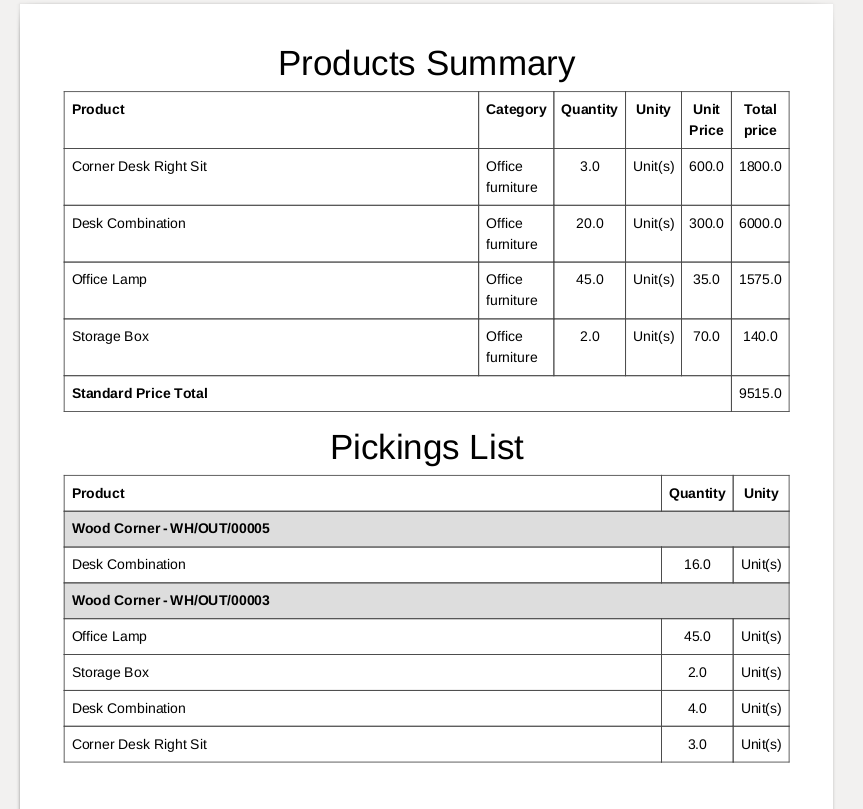
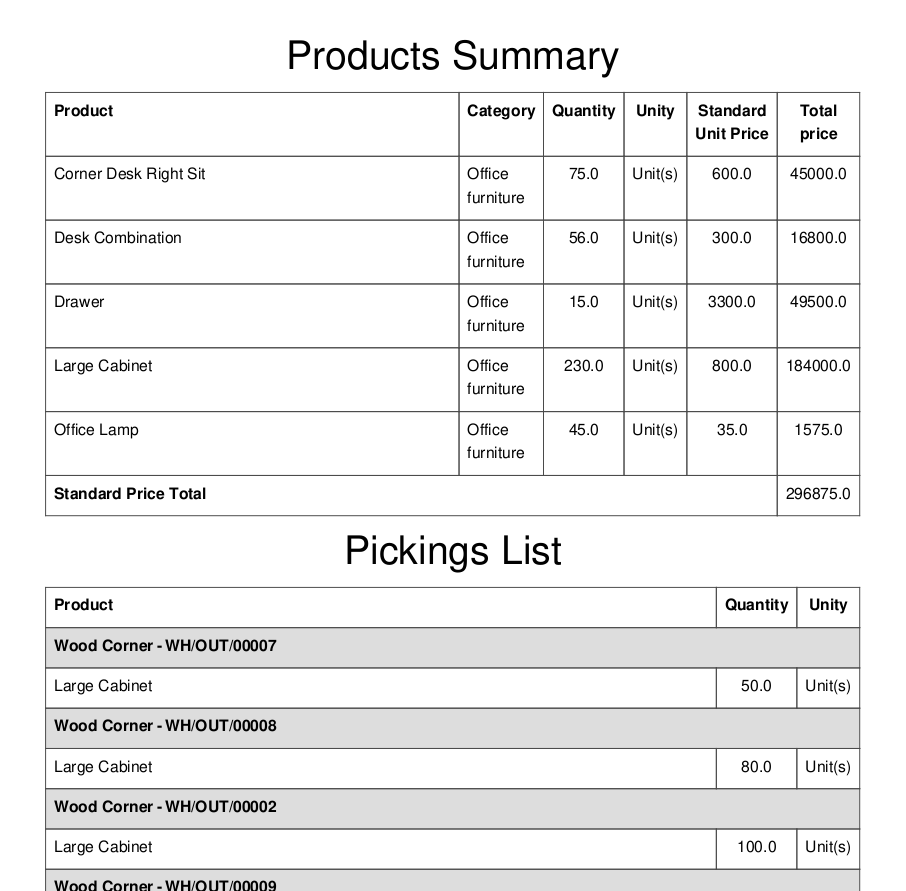
[IMP] stock_report_picking_summary: optional print prices

Changed region(s): [[0.0301, 0.0309, 0.9641, 1.0]]

diff --git a/stock_picking_report_summary/static/description/index.html b/stock_picking_report_summary/static/description/index.html
@@ -374,6 +374,8 @@ print a Report summary with two sheets :</p>
 <li>Products Summary (where the total sum is calculated for each product)</li>
 <li>Detail Part (each Picking is shown)</li>
 </ul>
+<p>You can choose to print standard prices or not. It can be useful to check some
+values when you prepare your pickings.</p>
 <p><strong>Table of contents</strong></p>
 <div class="contents local topic" id="contents">
 <ul class="simple">
@@ -394,12 +396,17 @@ print a Report summary with two sheets :</p>
 <li>go to Inventory</li>
 <li>Choose a Operation</li>
 <li>Select any pickings and click on ‘Action’ / ‘Print Picking Summary (PDF)’</li>
+<li>Choose your options</li>
 </ul>
 <div class="figure">
 <img alt="https://raw.githubusercontent.com/quentinDupont/stock-logistics-reporting/12.0_ADD_picking_summary_report/stock_picking_report_summary/static/description/wizard.png" src="https://raw.githubusercontent.com/quentinDupont/stock-logistics-reporting/12.0_ADD_picking_summary_report/stock_picking_report_summary/static/description/wizard.png" />
 </div>
 <div class="figure">
 <img alt="https://raw.githubusercontent.com/quentinDupont/stock-logistics-reporting/12.0_ADD_picking_summary_report/stock_picking_report_summary/static/description/pdf_report.png" src="https://raw.githubusercontent.com/quentinDupont/stock-logistics-reporting/12.0_ADD_picking_summary_report/stock_picking_report_summary/static/description/pdf_report.png" />
+</div>
+<p>Without prices :</p>
+<div class="figure">
+<img alt="https://raw.githubusercontent.com/quentinDupont/stock-logistics-reporting/12.0_ADD_picking_summary_report/stock_picking_report_summary/static/description/pdf_report_wo_prices.png" src="https://raw.githubusercontent.com/quentinDupont/stock-logistics-reporting/12.0_ADD_picking_summary_report/stock_picking_report_summary/static/description/pdf_report_wo_prices.png" />
 </div>
 </div>
 <div class="section" id="bug-tracker">
@@ -426,6 +433,8 @@ If you spotted it first, help us smashing it by providing a detailed and welcome
 </div>
 <div class="section" id="maintainers">
 <h2><a class="toc-backref" href="#id6">Maintainers</a></h2>
+<p>Current maintainer:</p>
+<p><a class="reference external" href="https://github.com/quentinDupont"><img alt="quentinDupont" src="https://github.com/quentinDupont.png?size=40px" /></a></p>
 <p>This module is part of the <a class="reference external" href="https://github.com/quentinDupont/stock-logistics-reporting/tree/12.0_ADD_picking_summary_report/stock_picking_report_summary">quentinDupont/stock-logistics-reporting</a> project on GitHub.</p>
 <p>You are welcome to contribute.</p>
 </div>

diff --git a/stock_picking_report_summary/models/picking_summary_wizard.py b/stock_picking_report_summary/models/picking_summary_wizard.py
@@ -10,6 +10,37 @@ class PickingSummaryWizard(models.TransientModel):
     _name = 'picking.summary.wizard'
     _description = 'Picking Summary Wizard'
 
+    # Columns Section
+    print_summary = fields.Boolean(
+        string='Print Summary', default=True)
+
+    print_detail = fields.Boolean(
+        string='Print Detail', default=True)
+
+    print_unity_in_list = fields.Boolean(
+        string='Print Unit in Pickings List', default=True)
+
+    print_prices = fields.Boolean(
+        string='Print Standard Prices', default=False)
+
+    product_line_ids = fields.One2many(
+        comodel_name='picking.summary.wizard.product',
+        inverse_name='wizard_id',
+        default=lambda self: self._default_product_line_ids())
+
+    standard_price_total = fields.Float(
+        compute='_compute_standard_price_total',
+        digits=dp.get_precision('Product Price'))
+
+    picking_line_ids = fields.One2many(
+        comodel_name='picking.summary.wizard.picking',
+        inverse_name='wizard_id',
+        default=lambda self: self._default_picking_line_ids())
+
+    picking_line_qty = fields.Integer(
+        string='Number of Selected Picking', readonly=True,
+        default=lambda self: self._default_picking_line_qty())
+
     # Default Section
     def _default_picking_line_qty(self):
         return len(self._context.get('active_ids', []))
@@ -48,41 +79,12 @@ class PickingSummaryWizard(models.TransientModel):
         # Arranged in alphabetical order for category then product name
         product_lines_sorted = sorted(
             product_lines.items(), key=lambda x: (x[1]['categ'], x[1]['name']))
-        # product_lines_sorted = sorted(
-        #     dict(product_lines_sorted).items(),
-        #     key=lambda x: )
         for product_id, name_qty in product_lines_sorted:
             res.append((0, 0, {
                 'product_id': product_id,
                 'quantity_total': name_qty['qty'],
             }))
         return res
-
-    # Columns Section
-    print_summary = fields.Boolean(
-        string='Print Summary', default=True)
-
-    print_detail = fields.Boolean(
-        string='Print Detail', default=True)
-
-    print_unity_in_list = fields.Boolean(
-        string='Print Unit in Pickings List', default=True)
-
-    product_line_ids = fields.One2many(
-        comodel_name='picking.summary.wizard.product',
-        inverse_name='wizard_id', default=_default_product_line_ids)
-
-    standard_price_total = fields.Float(
-        compute='_compute_standard_price_total',
-        digits=dp.get_precision('Product Unit of Measure'))
-
-    picking_line_ids = fields.One2many(
-        comodel_name='picking.summary.wizard.picking',
-        inverse_name='wizard_id', default=_default_picking_line_ids)
-
-    picking_line_qty = fields.Integer(
-        string='Number of Selected Picking', readonly=True,
-        default=_default_picking_line_qty)
 
     # Compute Section
     @api.multi

diff --git a/stock_picking_report_summary/models/picking_summary_wizard_product.py b/stock_picking_report_summary/models/picking_summary_wizard_product.py
@@ -16,9 +16,13 @@ class PickingSummaryWizardProduct(models.TransientModel):
 
     quantity_total = fields.Float()
 
+    standard_price = fields.Float(
+        related='product_id.standard_price',
+        digits=dp.get_precision('Product Price'))
+
     standard_price_total = fields.Float(
         compute='_compute_standard_price_total',
-        digits=dp.get_precision('Product Unit of Measure'))
+        digits=dp.get_precision('Product Price'))
 
     @api.multi
     def _compute_standard_price_total(self):

diff --git a/stock_picking_report_summary/README.rst b/stock_picking_report_summary/README.rst
@@ -26,6 +26,9 @@ print a Report summary with two sheets :
 
 * Detail Part (each Picking is shown)
 
+You can choose to print standard prices or not. It can be useful to check some
+values when you prepare your pickings.
+
 **Table of contents**
 
 .. contents::
@@ -42,9 +45,15 @@ To use this module, you need to
 
 * Select any pickings and click on 'Action' / 'Print Picking Summary (PDF)'
 
+* Choose your options
+
 .. figure:: https://raw.githubusercontent.com/quentinDupont/stock-logistics-reporting/12.0_ADD_picking_summary_report/stock_picking_report_summary/static/description/wizard.png
 
 .. figure:: https://raw.githubusercontent.com/quentinDupont/stock-logistics-reporting/12.0_ADD_picking_summary_report/stock_picking_report_summary/static/description/pdf_report.png
+
+Without prices :
+
+.. figure:: https://raw.githubusercontent.com/quentinDupont/stock-logistics-reporting/12.0_ADD_picking_summary_report/stock_picking_report_summary/static/description/pdf_report_wo_prices.png
 
 Bug Tracker
 ===========
@@ -71,6 +80,14 @@ Contributors
 
 Maintainers
 ~~~~~~~~~~~
+
+.. |maintainer-quentinDupont| image:: https://github.com/quentinDupont.png?size=40px
+    :target: https://github.com/quentinDupont
+    :alt: quentinDupont
+
+Current maintainer:
+
+|maintainer-quentinDupont| 
 
 This module is part of the `quentinDupont/stock-logistics-reporting <https://github.com/quentinDupont/stock-logistics-reporting/tree/12.0_ADD_picking_summary_report/stock_picking_report_summary>`_ project on GitHub.
 

diff --git a/stock_picking_report_summary/readme/USAGE.rst b/stock_picking_report_summary/readme/USAGE.rst
@@ -6,6 +6,12 @@ To use this module, you need to
 
 * Select any pickings and click on 'Action' / 'Print Picking Summary (PDF)'
 
+* Choose your options
+
 .. figure:: ../static/description/wizard.png
 
 .. figure:: ../static/description/pdf_report.png
+
+Without prices :
+
+.. figure:: ../static/description/pdf_report_wo_prices.png

diff --git a/stock_picking_report_summary/readme/DESCRIPTION.rst b/stock_picking_report_summary/readme/DESCRIPTION.rst
@@ -4,3 +4,6 @@ print a Report summary with two sheets :
 * Products Summary (where the total sum is calculated for each product)
 
 * Detail Part (each Picking is shown)
+
+You can choose to print standard prices or not. It can be useful to check some
+values when you prepare your pickings.
